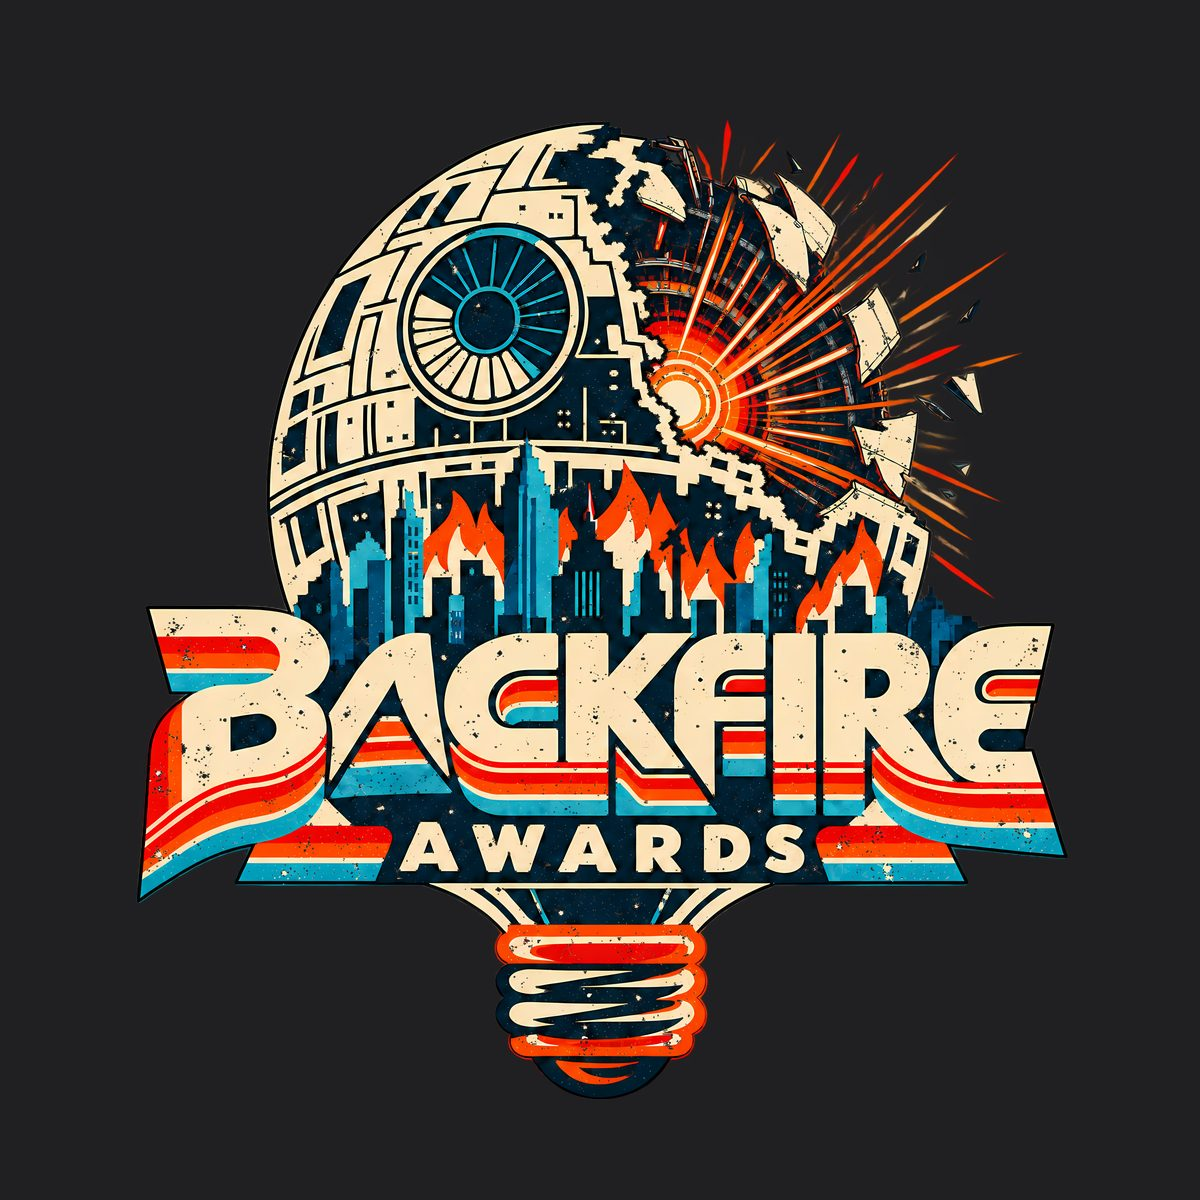
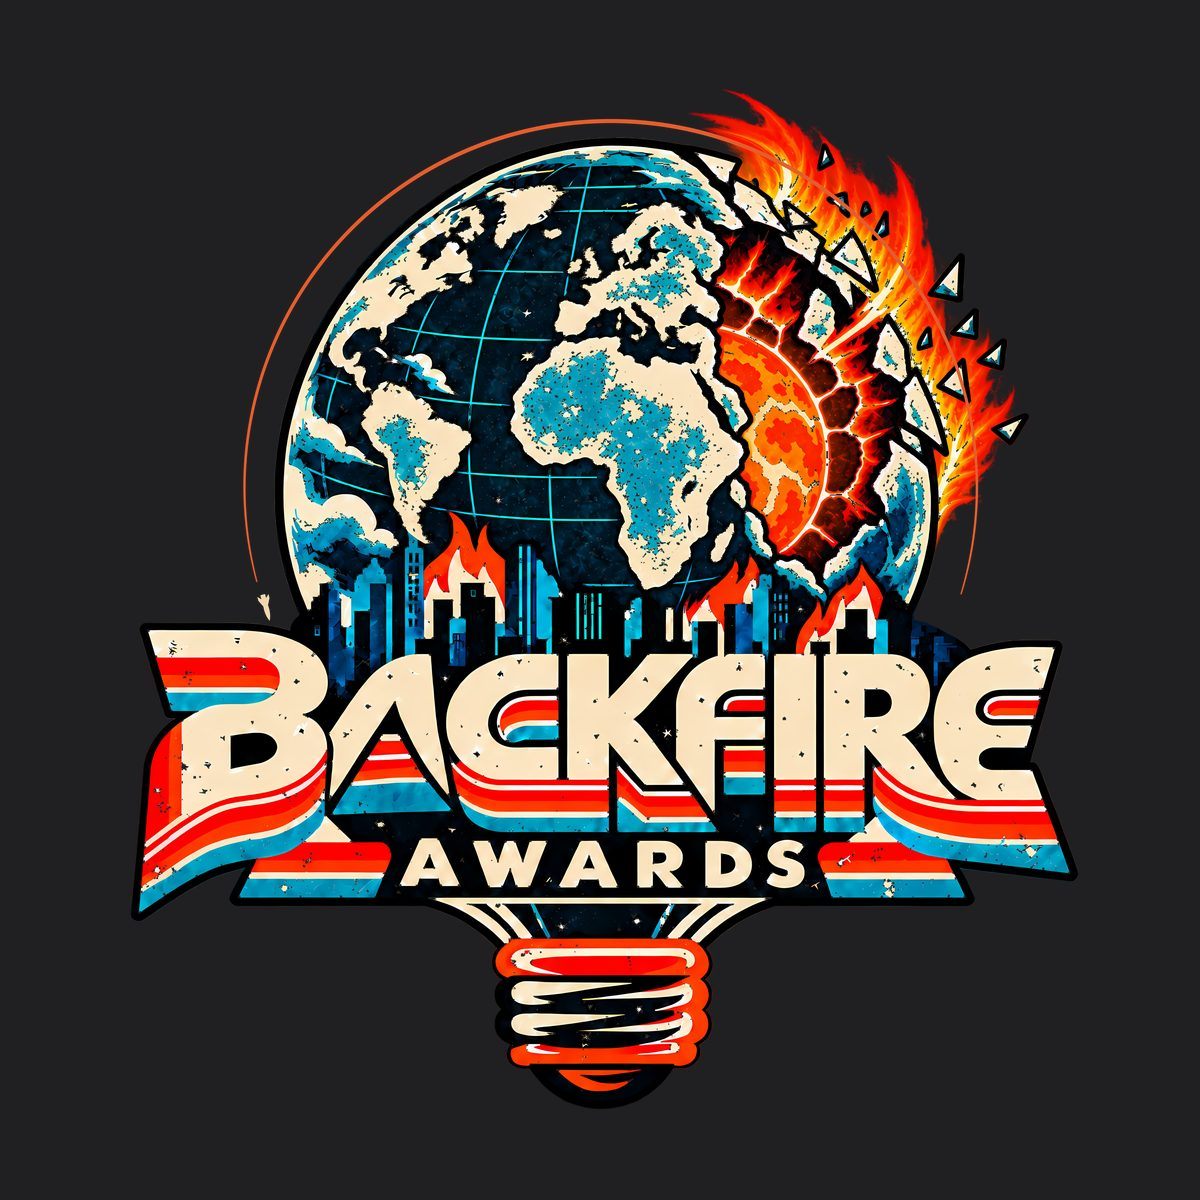
Shop: new front design (Earth in the bulb) replaces the earlier art

diff --git a/public/_worker.js b/public/_worker.js
@@ -1203,7 +1203,7 @@ async function shopProducts(ctx) {
 // can see what is printed without leaving the site. Products without an entry show the Shopify photo only.
 const SHOP_ART = {
   "bright-idea-tee-charcoal-black": [
-    { src: "/img/shop/bright-idea-front.jpg", alt: "Front print: a retro light bulb with the Backfire Awards wordmark", label: "Front" },
+    { src: "/img/shop/bright-idea-front.jpg", alt: "Front print: a retro light bulb holding the Earth, cracking open in fire over a burning city skyline, with the Backfire Awards wordmark", label: "Front" },
     { src: "/img/shop/bf-badge-back.jpg", alt: "Back print: the Bf element badge reading backfireawards.com", label: "Back, below the collar" },
   ],
 };
